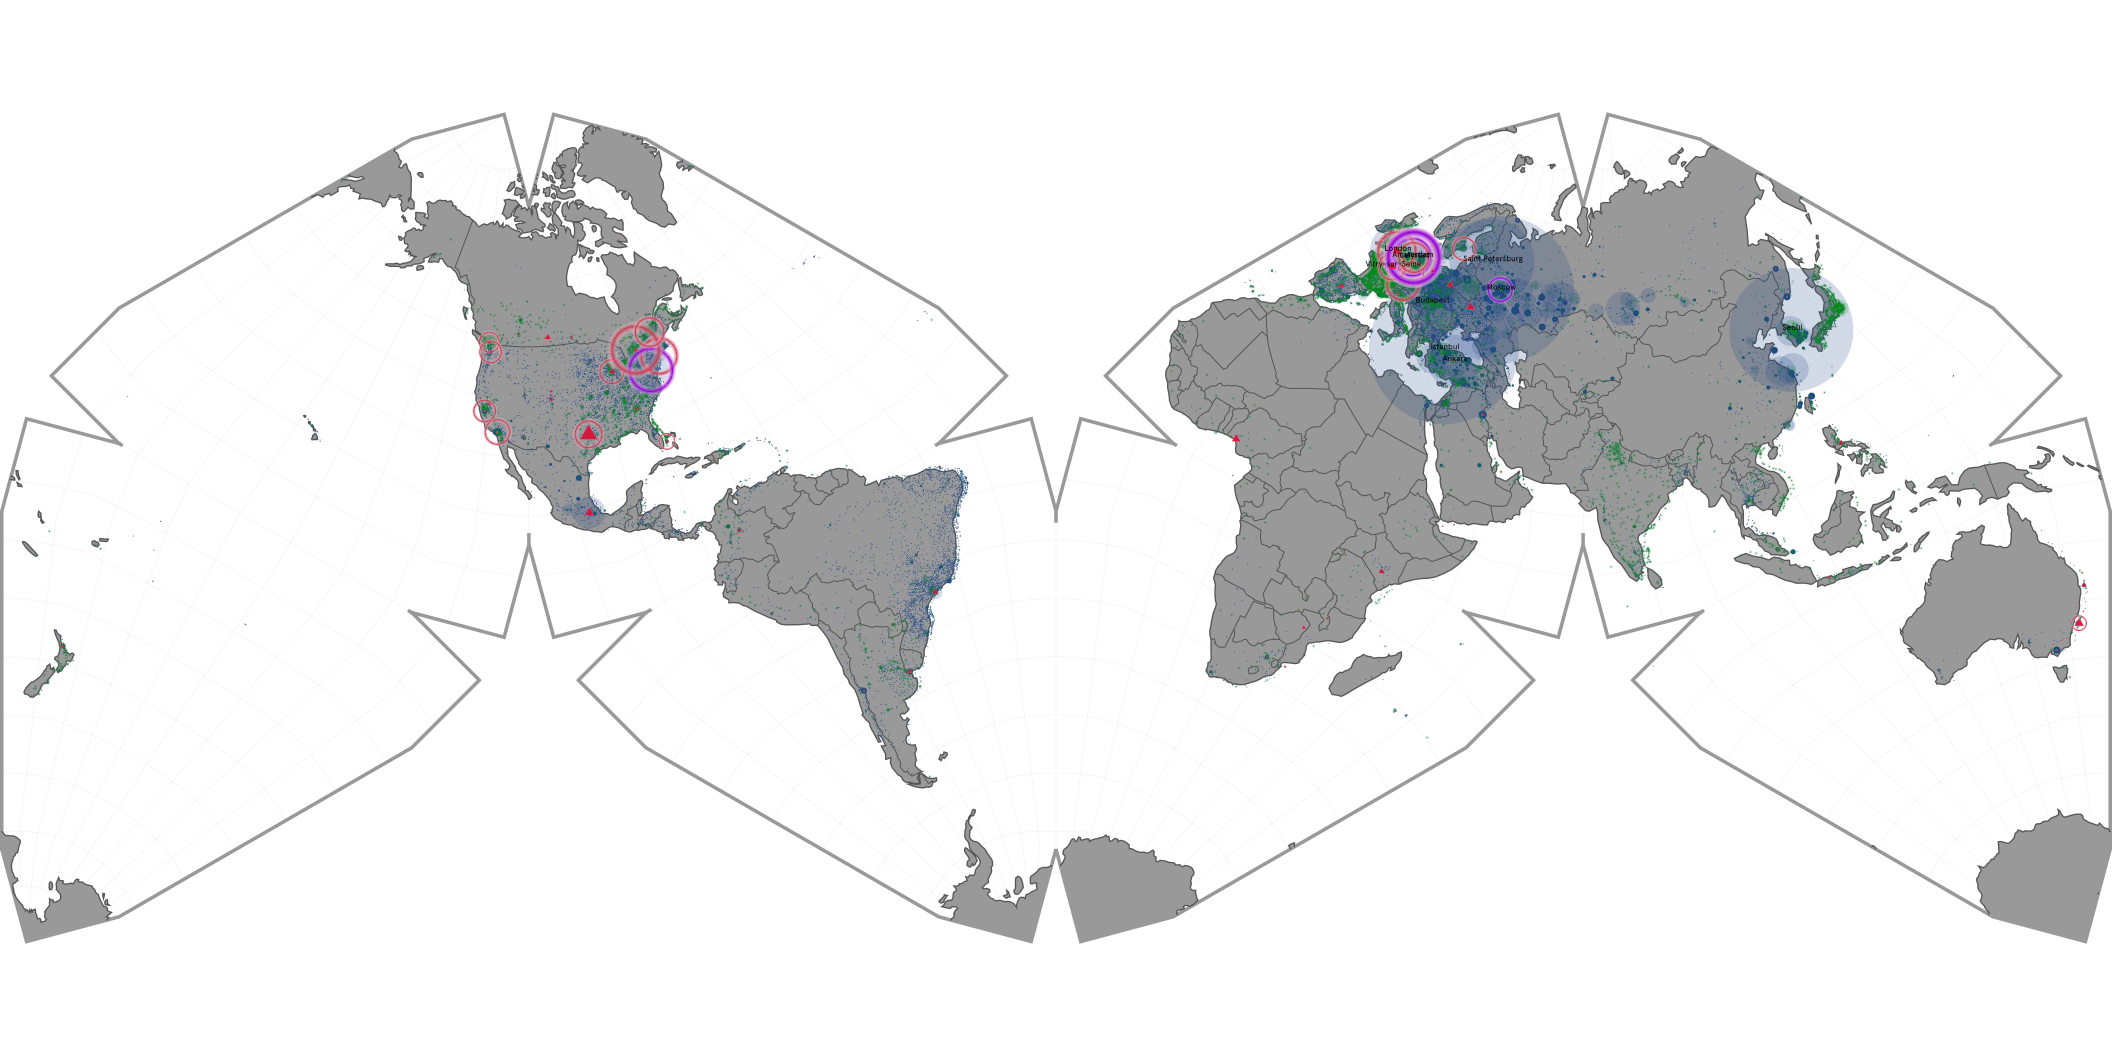
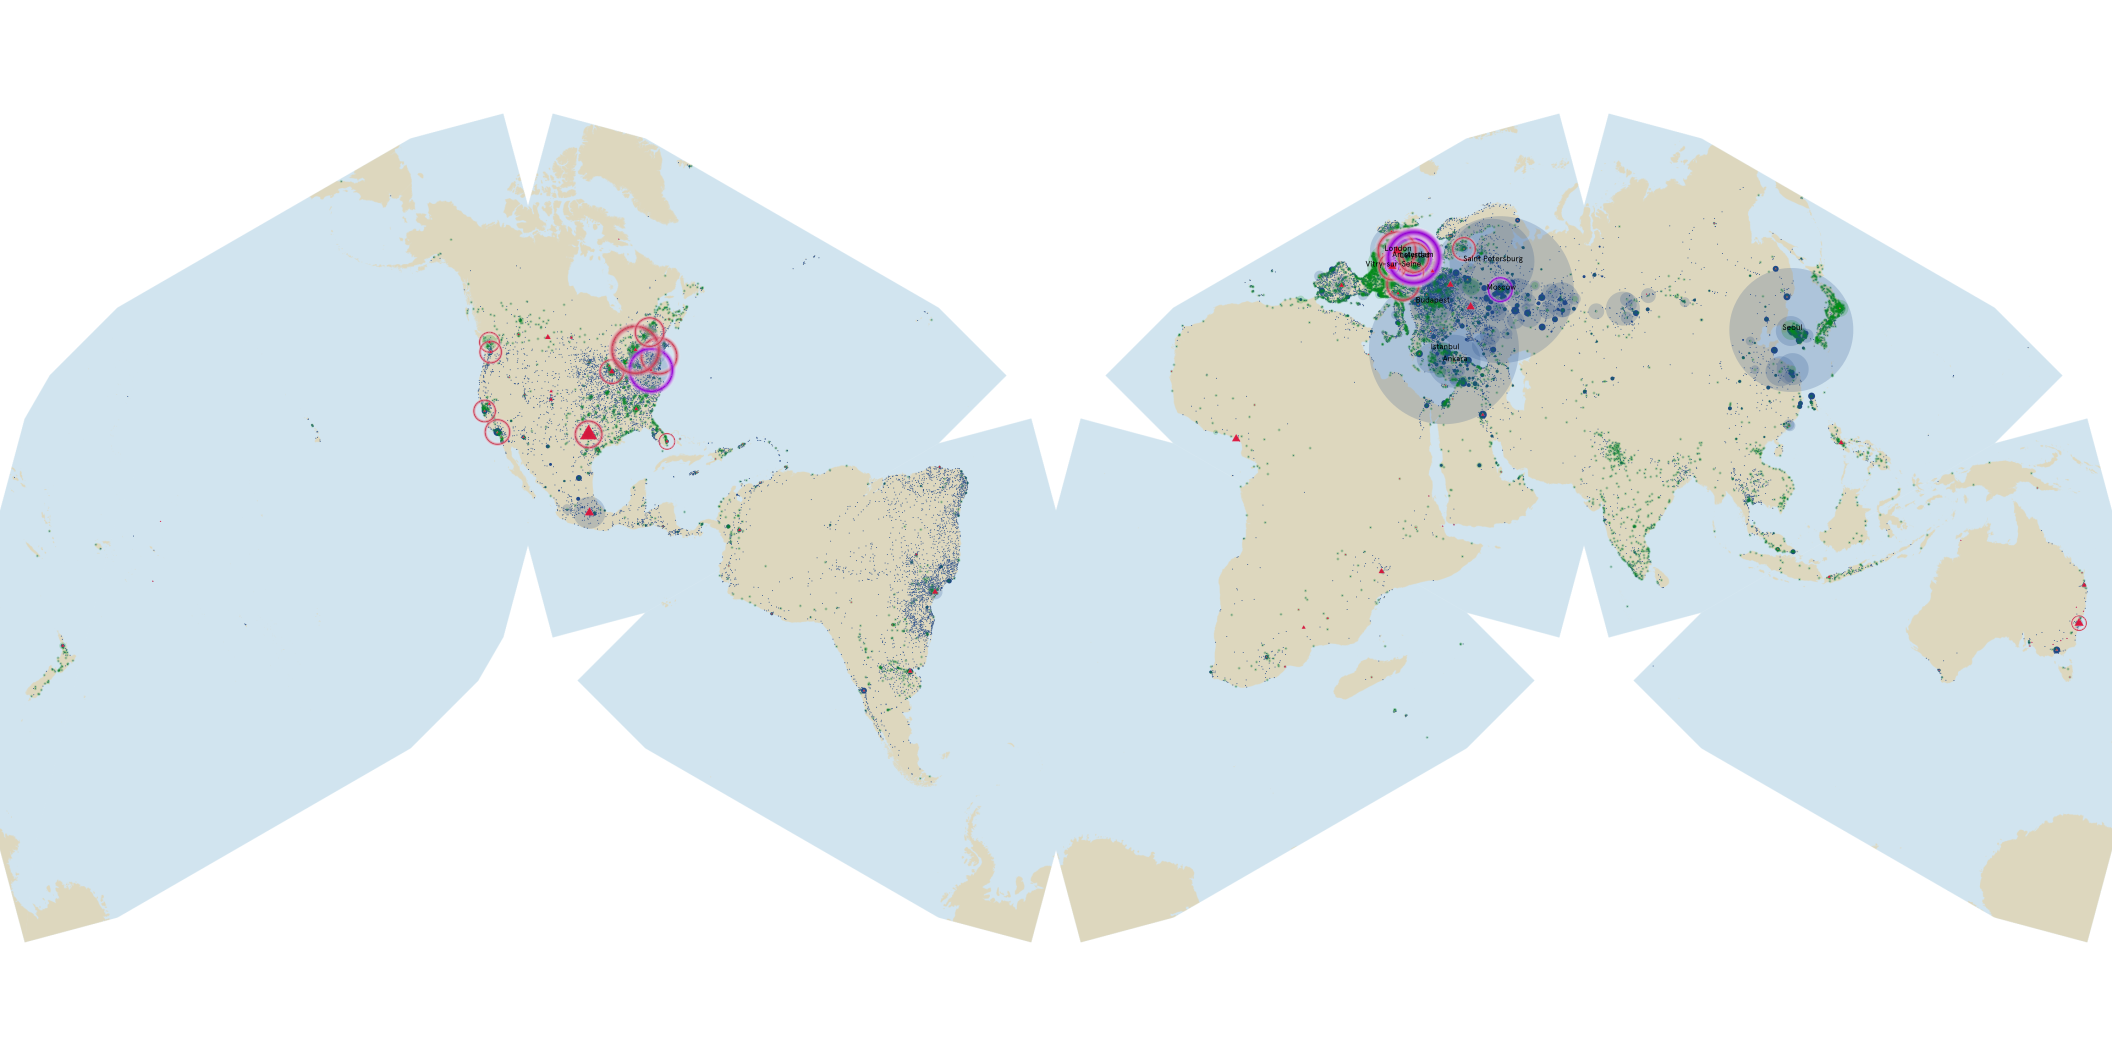
Switch carto maps to the Earth plate and fine-tune data maps
- geographic and data maps use the earth-ck-44-22 Cahill-Keyes raster
- first data map labeled cumulative all resolution with per-map captions
- unique per-BTIH colors and downloader-sized draw layering

diff --git a/docs/year-2024/laid-01-sample-cache-audit.md b/docs/year-2024/laid-01-sample-cache-audit.md
@@ -54,8 +54,14 @@ description: "Cache coverage and visualization audit for one media object."
 
 ### Cumulative data maps
 
-![laid-01-data-cumulative](figures/laid-01-data-cumulative.webp)
+**Cumulative All Resolution**
 
-![laid-01-data-hd](figures/laid-01-data-hd.webp)
+![Cumulative All Resolution](figures/laid-01-data-cumulative-all-resolution.webp)
 
-![laid-01-data-sd](figures/laid-01-data-sd.webp)
+**Cumulative HD**
+
+![Cumulative HD](figures/laid-01-data-hd.webp)
+
+**Cumulative SD**
+
+![Cumulative SD](figures/laid-01-data-sd.webp)
